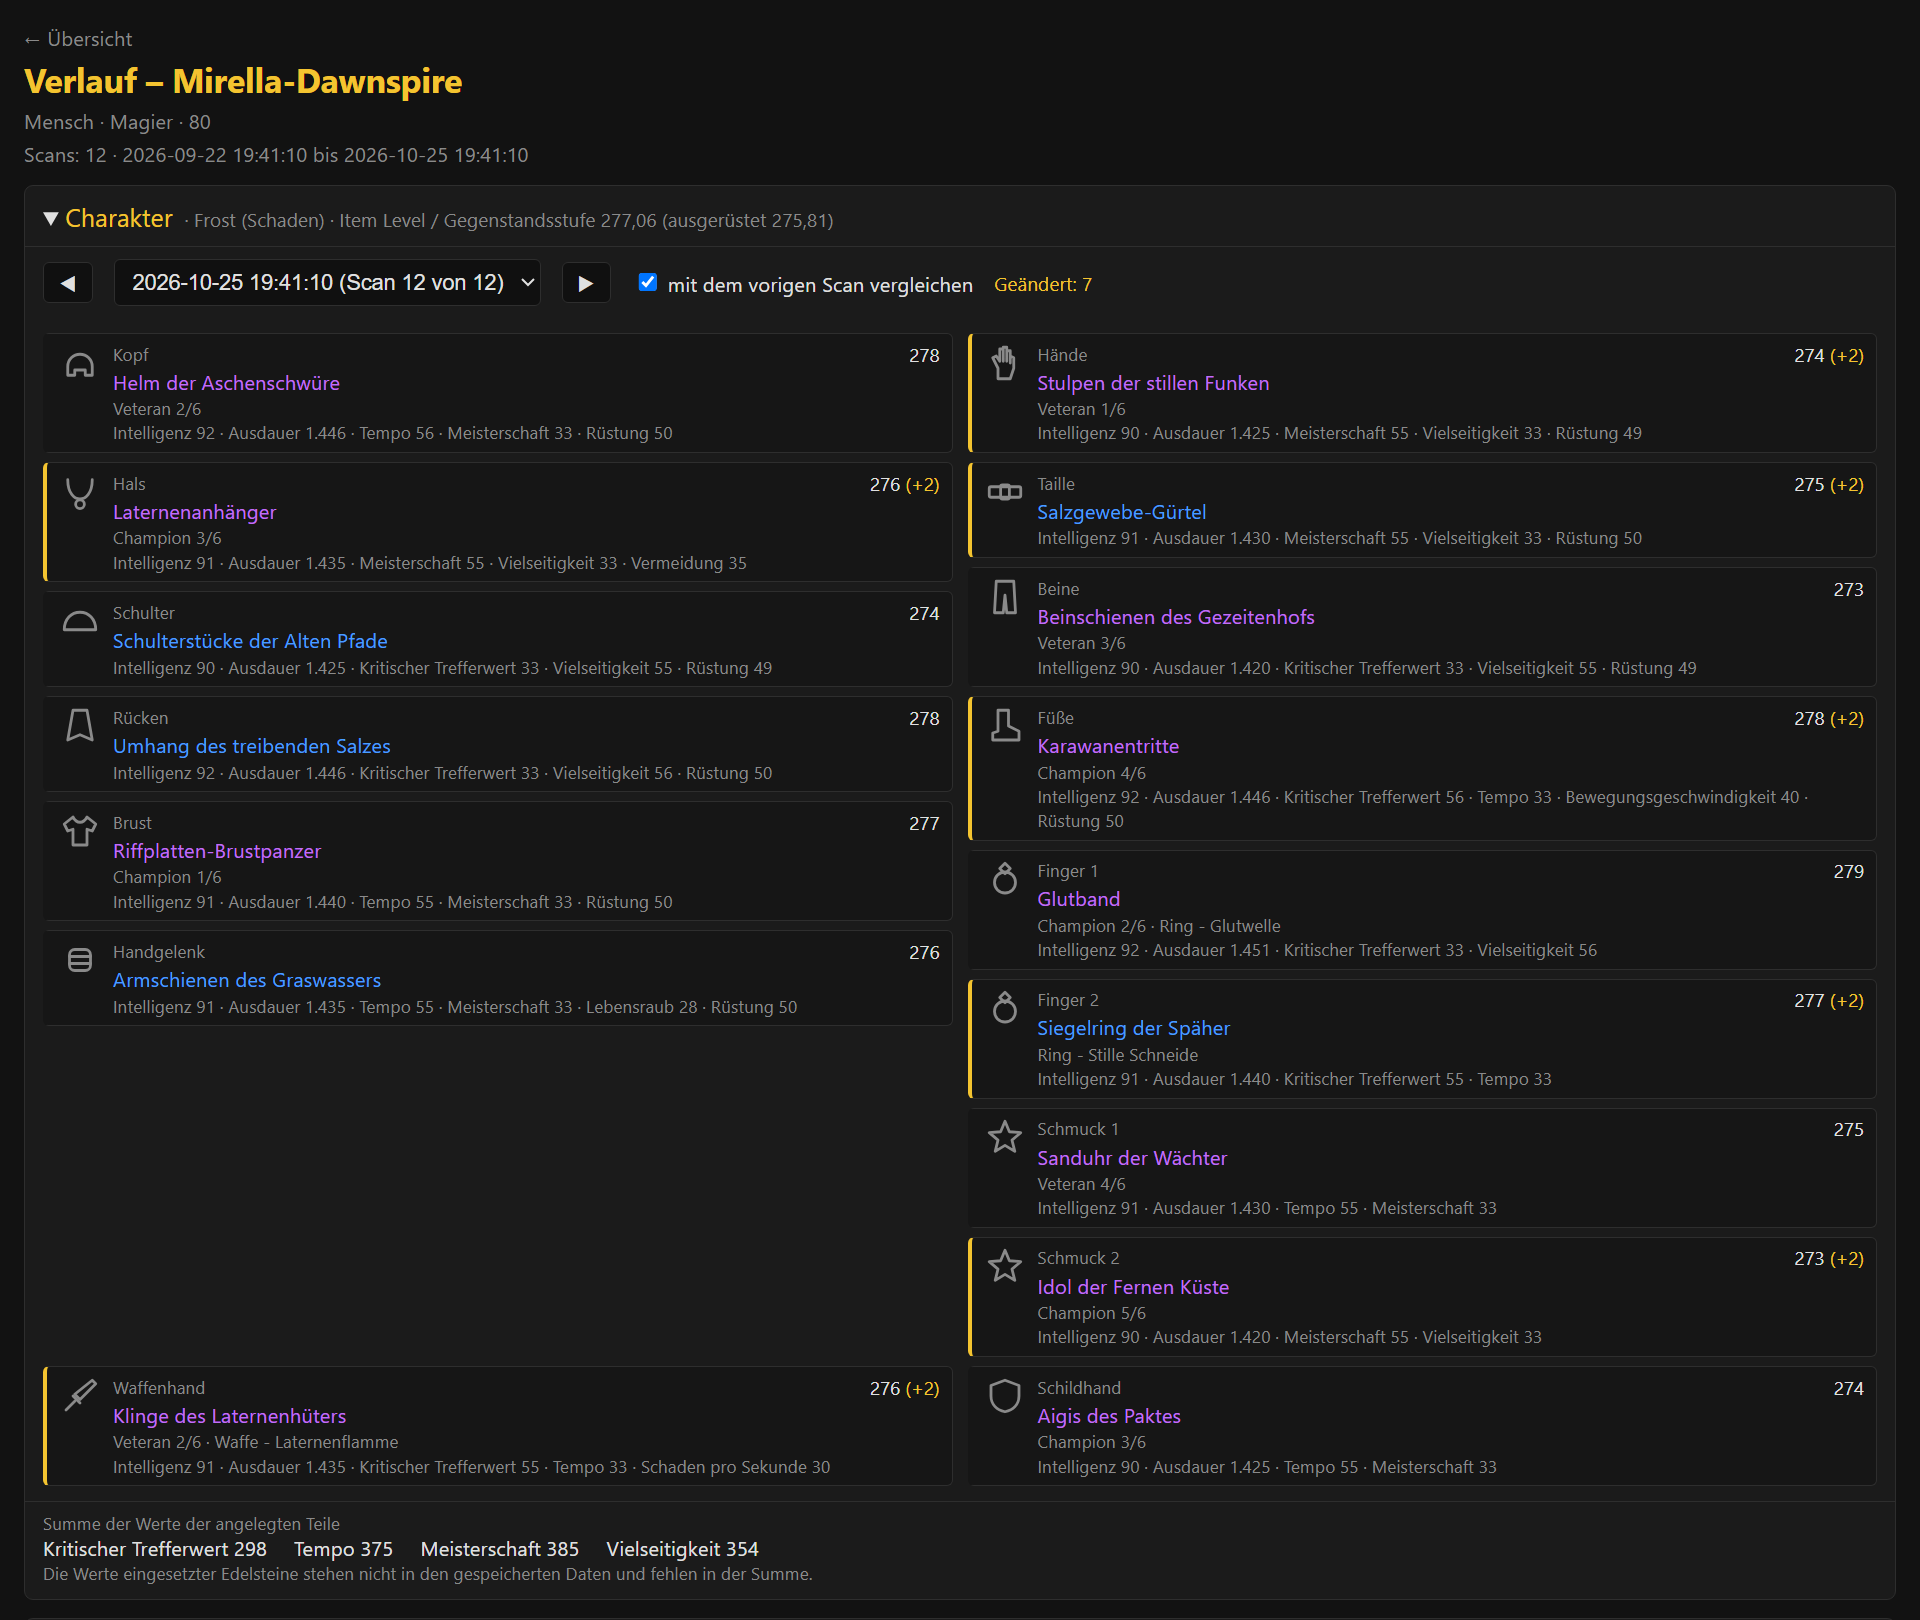
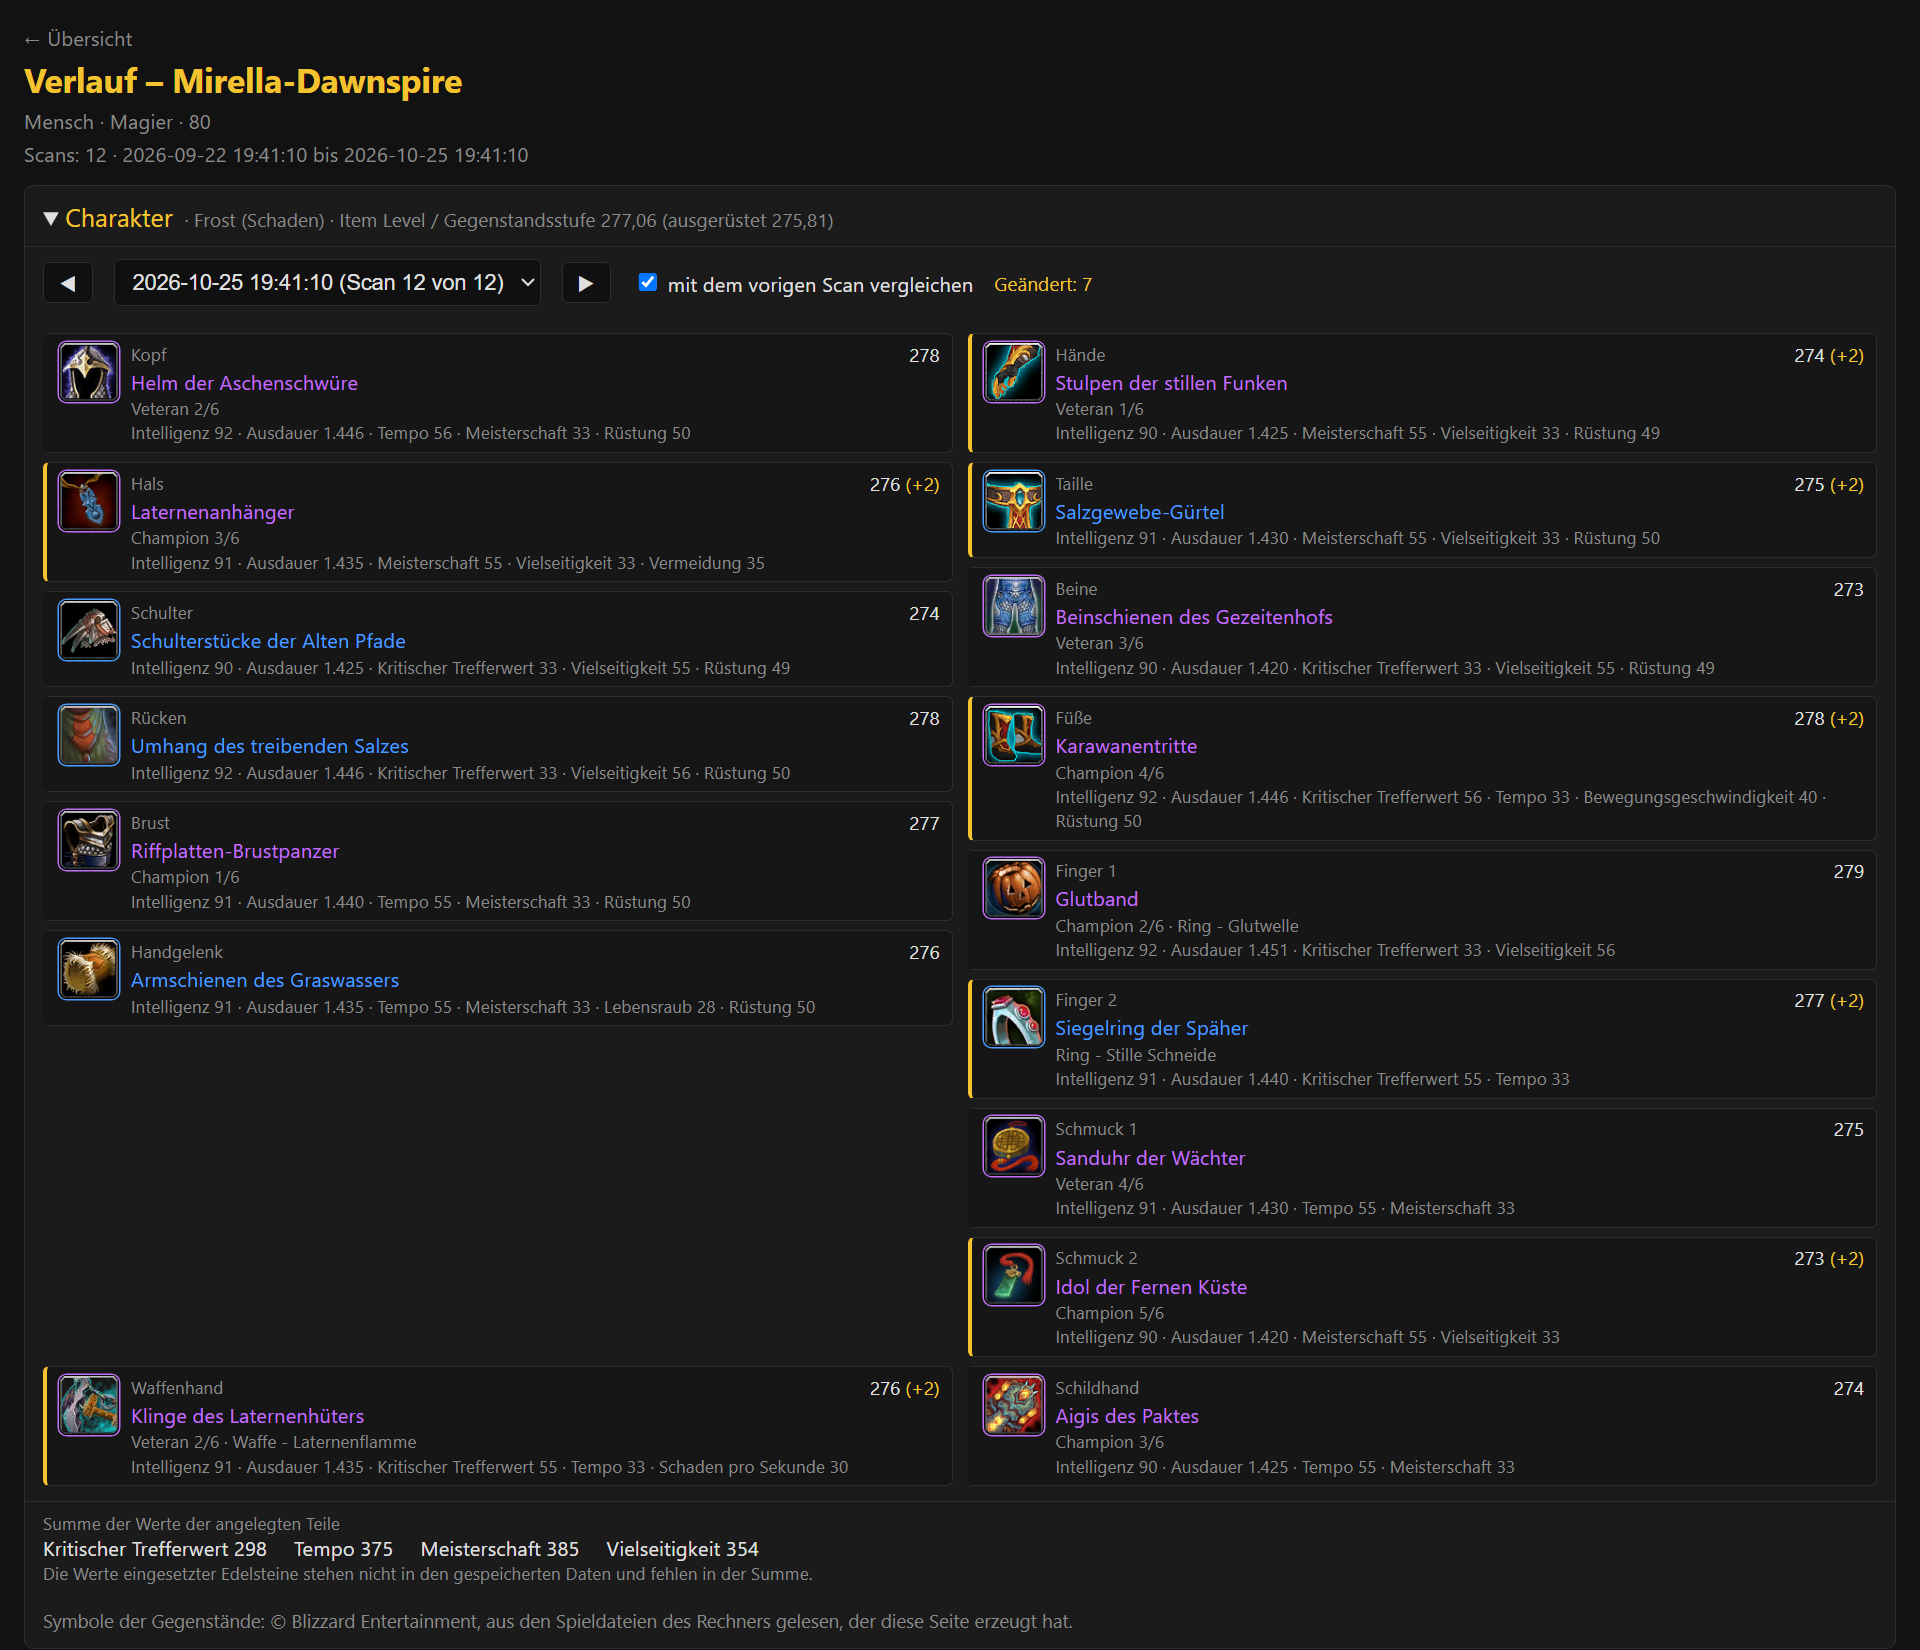
Show the item pictures in the Character screenshot of the landing page
The Character picture of the landing page and the READMEs is made again,
in both languages, with the pictures of the game for sixteen items (the
demo option of the previous commit); the characters, items and numbers
stay invented. It is the one picture with game icons: the caption and the
note under the screenshots say so and credit Blizzard Entertainment, and
the sentence in the READMEs that the pictures are not part of the
pictures in them now names this one. The window is a little taller than
before (1280 x 1100, so 1920 x 1650) to leave room for the credit line
the block shows under the equipment; width and height of the images on
the page are changed to match, and a test now compares them with the real
size of every image.

THIRD_PARTY_LICENSES.md and DEVELOPMENT.md say how the picture is made
and why only the finished screenshot is in the repository (maintainer's
decision), including the PowerShell quirk that Edge returns before the
file is written unless its output is piped.

diff --git a/docs/index.html b/docs/index.html
@@ -93,7 +93,7 @@
     </div>
     <img class="shot en" src="images/stats-en.png" width="1920" height="1140" alt="The StatTracker stats page: a table comparing five characters, the best value of each row highlighted in green.">
     <img class="shot de" src="images/stats-de.png" width="1920" height="1140" alt="Die StatTracker-Statistikseite: eine Tabelle vergleicht fünf Charaktere, der beste Wert jeder Zeile ist grün hervorgehoben.">
-    <p class="note"><span class="en">All screenshots show invented demo data - made-up characters, realms and numbers.</span><span class="de">Alle Bilder zeigen erfundene Demodaten - ausgedachte Charaktere, Realms und Zahlen.</span></p>
+    <p class="note"><span class="en">All screenshots show invented demo data - made-up characters, realms and numbers. Only the item pictures in the Character screenshot are the game's own (© Blizzard Entertainment).</span><span class="de">Alle Bilder zeigen erfundene Demodaten - ausgedachte Charaktere, Realms und Zahlen. Nur die Item-Bilder im Screenshot des Charakterbereichs stammen aus dem Spiel (© Blizzard Entertainment).</span></p>
   </div>
 
   <section id="features">
@@ -152,9 +152,9 @@
           <figcaption><span class="en">The history page of a character: pick statistics from the list and follow them over your scans, here as an index. Nothing is filled in between two scans.</span><span class="de">Die Verlaufsseite eines Charakters: Statistiken aus der Liste wählen und über die Scans verfolgen, hier als Index. Zwischen zwei Scans wird nichts aufgefüllt.</span></figcaption>
         </figure>
         <figure>
-          <img class="shot en" loading="lazy" src="images/character-en.png" width="1920" height="1620" alt="The history page of one character with the Character block open: sixteen equipment slots, each with the item, its item level, upgrade track, enchantment and stats; slots that changed since the previous scan are marked, and the sum of the secondary stats is below.">
-          <img class="shot de" loading="lazy" src="images/character-de.png" width="1920" height="1620" alt="Die Verlaufsseite eines Charakters mit geöffnetem Bereich Charakter: sechzehn Ausrüstungsslots, jeweils mit Item, Itemlevel, Aufwertungsspur, Verzauberung und Werten; seit dem vorigen Scan geänderte Slots sind markiert, darunter die Summe der Zweitwerte.">
-          <figcaption><span class="en">The Character block of the history page: the equipment of one scan, arranged like the character screen of the game, compared with the previous scan. Changed slots have a gold edge. The picture shows the symbols of the slots; StatTracker shows the item pictures of the game in their place when it can read them from your own installation.</span><span class="de">Der Bereich Charakter der Verlaufsseite: die Ausrüstung eines Scans, angeordnet wie der Charakterbildschirm des Spiels, verglichen mit dem vorigen Scan. Geänderte Slots haben einen goldenen Rand. Das Bild zeigt die Symbole der Slots; StatTracker zeigt stattdessen die Item-Bilder des Spiels, wenn es sie aus deiner eigenen Installation lesen kann.</span></figcaption>
+          <img class="shot en" loading="lazy" src="images/character-en.png" width="1920" height="1650" alt="The history page of one character with the Character block open: sixteen equipment slots, each with the picture of the item, its name, item level, upgrade track, enchantment and stats; slots that changed since the previous scan are marked, and the sum of the secondary stats is below.">
+          <img class="shot de" loading="lazy" src="images/character-de.png" width="1920" height="1650" alt="Die Verlaufsseite eines Charakters mit geöffnetem Bereich Charakter: sechzehn Ausrüstungsslots, jeweils mit Bild und Name des Items, Itemlevel, Aufwertungsspur, Verzauberung und Werten; seit dem vorigen Scan geänderte Slots sind markiert, darunter die Summe der Zweitwerte.">
+          <figcaption><span class="en">The Character block of the history page: the equipment of one scan, arranged like the character screen of the game, compared with the previous scan. Changed slots have a gold edge. The item pictures are the game's own, read from the game files of an installation (© Blizzard Entertainment); the characters, items and numbers are invented.</span><span class="de">Der Bereich Charakter der Verlaufsseite: die Ausrüstung eines Scans, angeordnet wie der Charakterbildschirm des Spiels, verglichen mit dem vorigen Scan. Geänderte Slots haben einen goldenen Rand. Die Item-Bilder stammen aus dem Spiel, gelesen aus den Spieldateien einer Installation (© Blizzard Entertainment); die Charaktere, Items und Zahlen sind erfunden.</span></figcaption>
         </figure>
       </div>
     </div>

diff --git a/tests/test_docs_site.py b/tests/test_docs_site.py
@@ -48,3 +48,17 @@ def test_both_language_versions_of_each_text_exist():
 
 def test_the_page_says_the_data_is_invented():
     assert "invented demo data" in HTML and "erfundene Demodaten" in HTML
+
+
+def test_the_item_pictures_of_the_game_are_credited_to_blizzard_on_the_page():
+    assert HTML.count("© Blizzard Entertainment") >= 2          # the note under the screenshots and the caption of the Character picture
+    assert "Only the item pictures in the Character screenshot" in HTML and "Nur die Item-Bilder im Screenshot" in HTML
+
+
+def test_the_declared_size_of_every_image_is_its_real_size():
+    for tag in re.findall(r"<img\b[^>]*>", HTML):
+        name = re.search(r'src="images/([^"]+)"', tag).group(1)
+        header = (DOCS / "images" / name).read_bytes()[:24]
+        real = (int.from_bytes(header[16:20], "big"), int.from_bytes(header[20:24], "big"))
+        declared = (int(re.search(r'width="(\d+)"', tag).group(1)), int(re.search(r'height="(\d+)"', tag).group(1)))
+        assert real == declared, (name, real, declared)

diff --git a/README.de.md b/README.de.md
@@ -37,9 +37,9 @@ Zwei weitere Linien stehen dort zur Wahl: das ausgerüstete und das gesamte Item
 
 ![Die Verlaufsseite eines Charakters: vier Statistiken als Index über zwölf Scans, links die Liste aller Statistiken.](docs/images/history-de.png)
 
-![Der Bereich Charakter der Verlaufsseite: sechzehn Ausrüstungsslots mit Item, Itemlevel, Aufwertungsspur, Verzauberung und Werten; seit dem vorigen Scan geänderte Slots haben einen goldenen Rand.](docs/images/character-de.png)
+![Der Bereich Charakter der Verlaufsseite: sechzehn Ausrüstungsslots mit Item-Bild, Name, Itemlevel, Aufwertungsspur, Verzauberung und Werten; seit dem vorigen Scan geänderte Slots haben einen goldenen Rand.](docs/images/character-de.png)
 
-Die Slots zeigen die Item-Bilder des Spiels, wenn StatTracker sie hat. Beim Einlesen der Daten sucht es die Bilder der Gegenstände, die deine Charaktere getragen haben, in den Spieldateien deiner WoW-Installation (nur lesend, das Spiel darf laufen), legt jedes als kleine PNG-Datei in `data/icons` ab und bettet sie in die Verlaufsseiten ein; wo ein Bild fehlt, bleibt das Symbol des Slots. Gelesen werden nur die Bilder, die noch fehlen: Das erste Einlesen dauert einige Sekunden länger, spätere kaum; das Programm stellt dafür keine Netzwerkanfrage. Die Option *Item-Icons beim Einlesen aus den Spieldateien lesen* unter *Einstellungen ...* ist standardmäßig an; ausgeschaltet bleiben früher gelesene Bilder sichtbar. Die Bilder gehören Blizzard Entertainment: Sie entstehen auf deinem Rechner aus deiner eigenen Installation, sind nicht Teil von StatTracker oder der Bilder in dieser README, und eine Verlaufsseite, die du weitergibst, enthält die Bilder, die sie zeigt.
+Die Slots zeigen die Item-Bilder des Spiels, wenn StatTracker sie hat. Beim Einlesen der Daten sucht es die Bilder der Gegenstände, die deine Charaktere getragen haben, in den Spieldateien deiner WoW-Installation (nur lesend, das Spiel darf laufen), legt jedes als kleine PNG-Datei in `data/icons` ab und bettet sie in die Verlaufsseiten ein; wo ein Bild fehlt, bleibt das Symbol des Slots. Gelesen werden nur die Bilder, die noch fehlen: Das erste Einlesen dauert einige Sekunden länger, spätere kaum; das Programm stellt dafür keine Netzwerkanfrage. Die Option *Item-Icons beim Einlesen aus den Spieldateien lesen* unter *Einstellungen ...* ist standardmäßig an; ausgeschaltet bleiben früher gelesene Bilder sichtbar. Die Bilder gehören Blizzard Entertainment: Sie entstehen auf deinem Rechner aus deiner eigenen Installation, sind nicht Teil von StatTracker, das Bild oben zeigt einige davon (© Blizzard Entertainment), und eine Verlaufsseite, die du weitergibst, enthält die Bilder, die sie zeigt.
 
 ## Spielversionen
 

diff --git a/README.md b/README.md
@@ -37,9 +37,9 @@ Two more lines are on offer there: the equipped and the overall item level of ev
 
 ![The history page of one character: four statistics shown as an index over twelve scans, with the list of all statistics on the left.](docs/images/history-en.png)
 
-![The Character block of the history page: sixteen equipment slots with item, item level, upgrade track, enchantment and stats; slots changed since the previous scan have a gold edge.](docs/images/character-en.png)
+![The Character block of the history page: sixteen equipment slots with item picture, name, item level, upgrade track, enchantment and stats; slots changed since the previous scan have a gold edge.](docs/images/character-en.png)
 
-The slots show the item pictures of the game when StatTracker has them. While reading the data it looks up the pictures of the items your characters wore in the game files of your WoW installation (read-only, the game may be running), keeps each as a small PNG file in `data/icons` and embeds them in the history pages; where a picture is missing the page keeps the symbol of the slot. Only the pictures that are still missing are read, so the first read takes a few seconds longer and later ones hardly any; the program makes no network request for them. The option *Read item icons from the game files when importing* in *Settings ...* is on by default; with it off, the pictures read earlier stay visible. The pictures belong to Blizzard Entertainment: they are made on your computer from your own installation, they are not part of StatTracker or of the pictures in this README, and a history page that you pass on contains the pictures it shows.
+The slots show the item pictures of the game when StatTracker has them. While reading the data it looks up the pictures of the items your characters wore in the game files of your WoW installation (read-only, the game may be running), keeps each as a small PNG file in `data/icons` and embeds them in the history pages; where a picture is missing the page keeps the symbol of the slot. Only the pictures that are still missing are read, so the first read takes a few seconds longer and later ones hardly any; the program makes no network request for them. The option *Read item icons from the game files when importing* in *Settings ...* is on by default; with it off, the pictures read earlier stay visible. The pictures belong to Blizzard Entertainment: they are made on your computer from your own installation, they are not part of StatTracker, the picture above shows a few of them (© Blizzard Entertainment), and a history page that you pass on contains the pictures it shows.
 
 ## Game versions
 

diff --git a/docs/DEVELOPMENT.md b/docs/DEVELOPMENT.md
@@ -92,13 +92,15 @@ last one is exactly the single scan of the default run, so the pictures above st
 import writes `<folder>/<lang>/history/` and the stats page gets its *History* block. The picture of
 the history page is `history/shot-history.html` (one character, four statistics as an index), 1280 x 840
 at scale 1.5, saved as `history-en.png` / `history-de.png`. The same page with the *Character* block
-opened is `history/shot-character.html`, saved as `character-en.png` / `character-de.png` (1280 x 900 at
-scale 1.5). It needs plotly.js: run `python compiler/plotly_fetch.py` once before.
+opened is `history/shot-character.html`, saved as `character-en.png` / `character-de.png` (1280 x 1100 at
+scale 1.5 = 1920 x 1650). It needs plotly.js: run `python compiler/plotly_fetch.py` once before.
 
-The demo history pages show invented placeholder tiles instead of item pictures (`make_demo` writes them to `<folder>/<lang>/icons/` and passes
-`--icons-dir`); no picture of the game goes near the repository. The Character block names Blizzard as the source of the pictures whenever one is shown,
-the placeholders included, so decide before making the Character picture again whether the placeholders and that credit belong in it (the pictures of
-0.1.11 show the slot symbols).
+By default the demo history pages show invented placeholder tiles instead of item pictures (`make_demo` writes them to `<folder>/<lang>/icons/` and
+passes `--icons-dir`). The Character picture of the landing page and the READMEs (`character-en.png` / `character-de.png`) is made with
+`--icons-from-game <WoW folder>` instead (and `--product`, default `wow`): the demo then reads sixteen fixed pictures of the game (`GAME_ICON_IDS`, only
+ids are in the source) from that installation into the output folder, which has to lie outside the repository. Only the finished screenshot goes into
+`docs/images/` (decision of the maintainer, 2026-11-05: one picture with a few game icons, credited to Blizzard Entertainment under the block and on the
+page). In PowerShell, Edge returns before it has written the file unless its output is piped, for example `| Select-Object -Last 1`.
 
 ## Layout
 

diff --git a/THIRD_PARTY_LICENSES.md b/THIRD_PARTY_LICENSES.md
@@ -44,5 +44,6 @@ a fixed SHA-256.
 
 The pictures of the items are the property of Blizzard Entertainment. StatTracker does not ship them: it reads them
 on your computer from your own installation and keeps them in the `data` folder. A history page that you pass on
-contains the pictures it shows. World of Warcraft is a trademark of Blizzard Entertainment, which is not affiliated
+contains the pictures it shows; the Character screenshots of the landing page and the READMEs (`docs/images/character-en.png`,
+`character-de.png`) show a few of them, made from invented demo data. World of Warcraft is a trademark of Blizzard Entertainment, which is not affiliated
 with this project.
